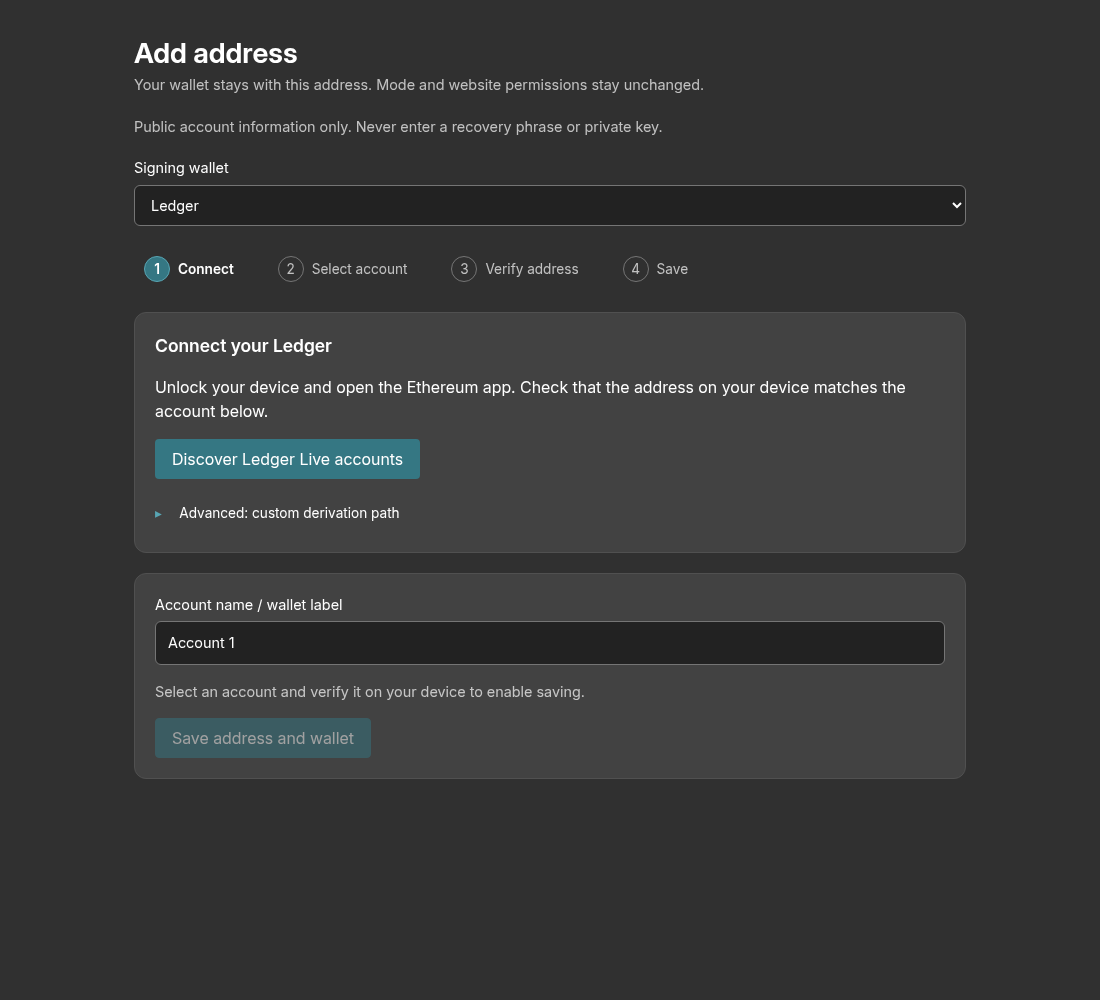
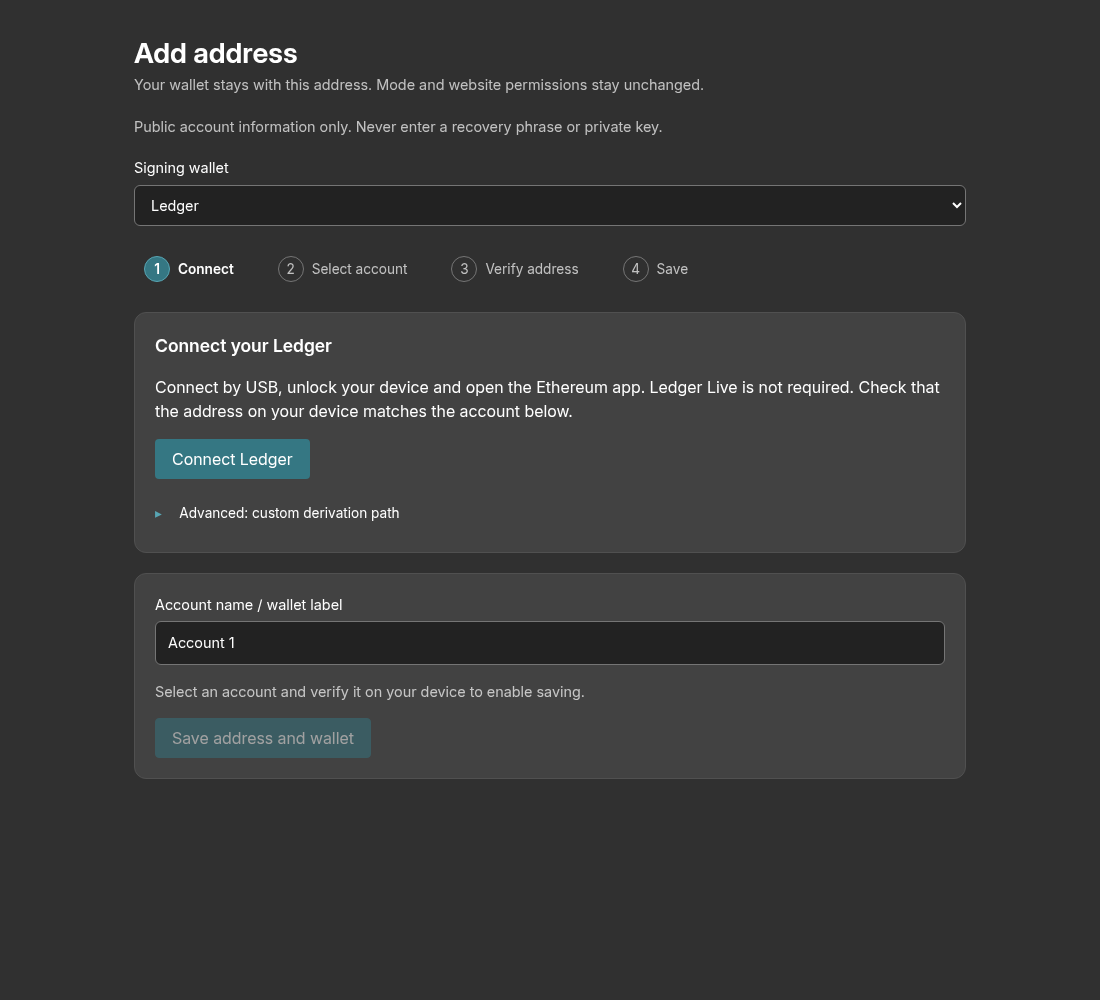
Clarify address selection and direct Ledger onboarding

Changed region(s): [[0.1545, 0.372, 0.8655, 0.496]]

diff --git a/app/ts/signingWallet.tsx b/app/ts/signingWallet.tsx
@@ -74,7 +74,7 @@ function SigningWalletPage() {
 		setStatus('Address verified on Ledger. Review and name the account before saving.')
 	})
 	const discoverLedger = () => run(async () => {
-		setStatus('Unlock Ledger and open Ethereum to discover the first five Ledger Live accounts.')
+		setStatus('Connect Ledger by USB, unlock it and open Ethereum to discover the first five accounts.')
 		const device = await selectLedgerDevice()
 		controller.current = new AbortController()
 		const discovered = await withLedgerDevice(device, controller.current.signal, async (exchange) => {
@@ -150,10 +150,10 @@ function SigningWalletPage() {
 		</select></label>
 		<SigningSteps steps = { steps } current = { currentStep }/>
 		{ saved ? <section class = 'signing-panel signing-success' role = 'status'><h2>{ kind === 'manual' ? 'Address saved' : 'Address and wallet saved' }</h2><p class = 'signing-address'>{ selectedAccount === undefined ? addressText : addressString(selectedAccount.address) }</p><p>You can close this tab and select the address in Interceptor.</p></section> : <>
-		{ kind === 'ledger' ? <section class = 'signing-panel'><h2>{ accounts.length === 0 ? 'Connect your Ledger' : 'Verify your selected account' }</h2><p>Unlock your device and open the Ethereum app. Check that the address on your device matches the account below.</p><div class = 'signing-actions'>
-			<button class = { `button ${ accounts.length === 0 ? 'is-primary' : 'signing-secondary' }` } disabled = { busy } onClick = { discoverLedger }>Discover Ledger Live accounts</button>
+		{ kind === 'ledger' ? <section class = 'signing-panel'><h2>{ accounts.length === 0 ? 'Connect your Ledger' : 'Verify your selected account' }</h2><p>Connect by USB, unlock your device and open the Ethereum app. Ledger Live is not required. Check that the address on your device matches the account below.</p><div class = 'signing-actions'>
+			<button class = { `button ${ accounts.length === 0 ? 'is-primary' : 'signing-secondary' }` } disabled = { busy } onClick = { discoverLedger }>Connect Ledger</button>
 			{ accounts.length === 0 ? undefined : <button class = 'button is-primary' disabled = { busy || ledgerVerified } onClick = { ledger }>{ ledgerVerified ? 'Address verified' : 'Verify selected address on Ledger' }</button> }
-		</div><details><summary>Advanced: custom derivation path</summary><label>Derivation path<input disabled = { busy } value = { path } onInput = { (event) => { setPath(event.currentTarget.value); setVerifiedLedgerAddress(undefined); setAccounts([]) } }/></label><p class = 'signing-muted'>Ledger Live: m/44′/60′/N′/0/0. Legacy: m/44′/60′/0′/0/N.</p><button class = 'button signing-secondary' disabled = { busy } onClick = { ledger }>Connect and verify this path</button></details></section> : undefined }
+		</div><details><summary>Advanced: custom derivation path</summary><label>Derivation path<input disabled = { busy } value = { path } onInput = { (event) => { setPath(event.currentTarget.value); setVerifiedLedgerAddress(undefined); setAccounts([]) } }/></label><p class = 'signing-muted'>Default account format (Ledger Live): m/44′/60′/N′/0/0. Legacy: m/44′/60′/0′/0/N.</p><button class = 'button signing-secondary' disabled = { busy } onClick = { ledger }>Connect and verify this path</button></details></section> : undefined }
 		{ kind === 'browser' ? <section class = 'signing-panel'><h2>Connect your browser wallet</h2><p>Open an approved website with your browser wallet installed, connect, then choose one of its exposed accounts here.</p><div class = 'signing-actions'><button class = 'button is-primary' disabled = { busy } onClick = { connectBrowserWallet }>Connect browser wallet</button></div>{ browserAccounts.map(({ tab, address, providerId }) => <button key = { `${ tab.tabId }:${ address }` } class = 'button signing-secondary' onClick = { () => { setAccounts([{ type: 'browser', address, signerName: tab.signerName, providerId, label }]); setSelected(0) } }>{ tab.signerProvider?.rdns ?? tab.signerName } · { addressString(address) }</button>) }{ tabs.some((tab) => tab.signerProvider?.ambiguous) ? <p class = 'signing-error'>Multiple providers claim the same wallet identity. Disable the conflicting wallet extension and reload the website before linking.</p> : undefined }</section> : undefined }
 		{ kind === 'airgap' ? <section class = 'signing-panel'>
 			<h2>{ scan ? 'Scan your public account' : 'Import from AirGap Vault' }</h2><p>In Vault, export your public Ethereum account as a QR code. No private keys leave Vault.</p>

diff --git a/test/benchmarks/signingScreenshots.ts b/test/benchmarks/signingScreenshots.ts
@@ -79,7 +79,7 @@ try {
 		`browser.storage.local.set(${JSON.stringify({
 			openedPageV2: { page: 'Home' },
 			selectedSigningAddress: address,
-			independentActiveSimulationAddress: manualAddress,
+			independentActiveSimulationAddress: ledgerAddress,
 			simulationMode: false,
 			useSignersAddressAsActiveAddress: false,
 			userAddressBookEntriesV3: [
@@ -129,15 +129,38 @@ try {
 	await home.page.evaluate(
 		`(() => { const button = [...document.querySelectorAll('button')].find(button => button.textContent.trim() === 'Change'); if(!button)throw new Error('Missing Change'); button.click(); })()`
 	)
-	await wait(home.page, 'Change signing wallet')
+	await wait(home.page, 'Choose address')
 	await capture(home.page, '00b-address-selector')
 	await home.page.evaluate(`document.querySelector('.modal-card-body').scrollTop = document.querySelector('.modal-card-body').scrollHeight`)
 	await capture(home.page, '00c-address-selector-manual')
+	if (await home.page.evaluate<boolean>(`[...document.querySelectorAll('.signing-address-selector button')].some(button => button.textContent === 'Use in simulation')`)) throw new Error('Address selector must not offer a mode-switch shortcut')
+	await click(home.page, 'Close')
+	await click(home.page, 'Simulating')
+	await wait(home.page, 'Main device')
+	for (let attempt = 0; attempt < 150; attempt++) {
+		if (await home.page.evaluate<boolean>(`(() => { const button = [...document.querySelectorAll('button')].find(button => button.textContent.trim() === 'Change'); if (!button || button.disabled) return false; button.click(); return true; })()`)) break
+		if (attempt === 149) throw new Error('Address controls remained disabled after switching mode')
+		await new Promise((resolve) => setTimeout(resolve, 100))
+	}
+	await wait(home.page, 'Choose address')
+	await home.page.evaluate(`(() => { const row = [...document.querySelectorAll('.signing-address-selector li')].find(row => row.textContent.includes('Research')); if (!row) throw new Error('Missing Research'); row.querySelector('.card').click(); })()`)
+
+	for (let attempt = 0; attempt < 100; attempt++) {
+		const selected = await background.evaluate<{ simulationMode?: boolean, selectedSigningAddress?: string, independentActiveSimulationAddress?: string }>(`browser.storage.local.get(['simulationMode', 'selectedSigningAddress', 'independentActiveSimulationAddress'])`)
+		if (selected.simulationMode === true && selected.independentActiveSimulationAddress === manualAddress) {
+			if (selected.selectedSigningAddress !== address) throw new Error('Address selection in Simulation mode changed signing address')
+			break
+		}
+		if (attempt === 99) throw new Error('Address selection did not preserve Simulation mode')
+		await new Promise((resolve) => setTimeout(resolve, 100))
+	}
+	await wait(home.page, 'No signing wallet')
+	await capture(home.page, '00d-simulation-selected')
 	await closeTarget(chrome.browserConnection, home.id)
-	const setup = await open('signingWalletV3.html', 'Discover Ledger Live accounts')
+	const setup = await open('signingWalletV3.html', 'Connect Ledger')
 	await capture(setup.page, '01-ledger-onboarding')
 	await installScreenshotLedger(setup.page)
-	await click(setup.page, 'Discover Ledger Live accounts')
+	await click(setup.page, 'Connect Ledger')
 	await wait(setup.page, 'Select an account, then verify')
 	await setup.page.evaluate(`document.querySelectorAll('input[type=radio]')[1].click()`)
 	await capture(setup.page, '01b-ledger-accounts')
@@ -163,7 +186,7 @@ try {
 	const preserved = await background.evaluate<boolean>(`(async () => {
 		const state = await browser.storage.local.get(['userAddressBookEntriesV3', 'selectedSigningAddress', 'independentActiveSimulationAddress', 'simulationMode']);
 		return state.userAddressBookEntriesV3.filter(entry => entry.address.toLowerCase() === ${JSON.stringify(address)}).length === 1
-			&& state.selectedSigningAddress === ${JSON.stringify(address)} && state.independentActiveSimulationAddress === ${JSON.stringify(manualAddress)} && state.simulationMode === false;
+			&& state.selectedSigningAddress === ${JSON.stringify(address)} && state.independentActiveSimulationAddress === ${JSON.stringify(manualAddress)} && state.simulationMode === true;
 	})()`)
 	if (!preserved) throw new Error('Onboarding duplicated the address or changed mode selections')
 

diff --git a/app/ts/components/subcomponents/SigningWalletSummary.tsx b/app/ts/components/subcomponents/SigningWalletSummary.tsx
@@ -9,7 +9,7 @@ export function openSigningWalletSetup(address?: bigint) {
 	return browser.tabs.create({ url: `${ browser.runtime.getURL(page) }${ address === undefined ? '' : `?address=0x${ address.toString(16).padStart(40, '0') }` }` })
 }
 
-export function SigningWalletSummary({ address, actionLabel = 'Change wallet' }: { address: bigint, actionLabel?: string }) {
+export function SigningWalletSummary({ address, showSimulationShortcut = true }: { address: bigint, showSimulationShortcut?: boolean }) {
 	const [bindings, setBindings] = useState<SigningWalletBindings>()
 	const [error, setError] = useState<string>()
 	useEffect(() => {
@@ -27,12 +27,15 @@ export function SigningWalletSummary({ address, actionLabel = 'Change wallet' }:
 	const binding = bindings.find((item) => item.wallet.address === address)
 	return <div class = 'signing-wallet-summary'>
 		<p>{ signingWalletDescription(binding) }</p>
-		{ binding === undefined ? <small>Set up signing wallet to sign, or switch to simulation below.</small> : undefined }
 		{ binding?.wallet.type === 'ledger' ? <small>Wallet saved · connect Ledger when signing</small> : binding?.wallet.type === 'airgap' ? <small>Imported account · awaiting offline signing</small> : undefined }
-		<div class = 'signing-actions'>
-		<button class = 'button is-small signing-secondary' onClick = { (event) => { event.stopPropagation(); void openSigningWalletSetup(address).catch((failure: unknown) => setError(failure instanceof Error ? failure.message : 'Could not open wallet setup')) } }>{ actionLabel }</button>
-		<button class = 'button is-small signing-secondary' onClick = { (event) => { event.stopPropagation(); void sendPopupMessageToBackgroundPage({ method: 'popup_changeActiveAddress', data: { activeAddress: address, simulationMode: true } }).catch((failure: unknown) => setError(failure instanceof Error ? failure.message : 'Could not select simulation address')) } }>Simulate this address</button>
+		<div class = 'signing-wallet-action'>
+		<button class = 'button is-small signing-secondary' onClick = { (event) => { event.stopPropagation(); void openSigningWalletSetup(address).catch((failure: unknown) => setError(failure instanceof Error ? failure.message : 'Could not open wallet setup')) } }>{ binding === undefined ? 'Set up wallet' : 'Change wallet' }</button>
+		<small>Choose how this address signs. Your selected address and mode stay the same.</small>
 		</div>
+		{ showSimulationShortcut ? <div class = 'signing-wallet-action'>
+		<button class = 'button is-small signing-secondary' onClick = { (event) => { event.stopPropagation(); void sendPopupMessageToBackgroundPage({ method: 'popup_changeActiveAddress', data: { activeAddress: address, simulationMode: true } }).catch((failure: unknown) => setError(failure instanceof Error ? failure.message : 'Could not select simulation address')) } }>Use in simulation</button>
+		<small>Select this address in Simulation mode. Your signing address stays the same.</small>
+		</div> : undefined }
 		{ error === undefined ? undefined : <p role = 'alert'>{ error }</p> }
 	</div>
 }

diff --git a/app/css/interceptor-pages.css b/app/css/interceptor-pages.css
@@ -839,7 +839,7 @@ fieldset[disabled] .button.is-primary.is-danger {
 .signing-camera video { max-width: 100%; width: 400px; border-radius: 8px; }
 .signing-wallet-summary { margin-top: 12px; color: var(--text-color); display: flex; flex-direction: column; gap: 8px; }
 .signing-wallet-summary small { color: var(--subtitle-text-color); }
-.signing-wallet-summary .signing-actions { margin-top: 4px; }
+.signing-wallet-action { display: grid; grid-template-columns: 136px minmax(0, 1fr); align-items: center; gap: 10px; margin-top: 4px; }
 .signing-address-selector .card.hoverable:hover, .signing-address-selector .card-content.hoverable:hover { background: var(--surface-mid-color); }
 .signing-address-selector .card { border: 1px solid var(--layout-line-color); box-shadow: none; }
 .signing-address-selector .card:hover { border-color: var(--accent-color); }
@@ -853,6 +853,7 @@ fieldset[disabled] .button.is-primary.is-danger {
 .signing-page details[open] > .signing-muted { margin: 12px 0; }
 .signing-page summary::before { content: '▸'; display: inline-block; width: 1.2em; color: var(--accent-color); }
 .signing-page details[open] > summary::before { content: '▾'; }
+.signing-address-selector .modal-card-body > .signing-muted { margin: 0 12px 10px; }
 .signing-address-selector .card-content { padding: 12px; }
 .signing-address-selector .signing-wallet-summary { margin-top: 8px; gap: 4px; font-size: .9rem; }
 .signing-address-selector .signing-wallet-summary .button { min-height: 32px; }

diff --git a/app/ts/components/pages/ChangeActiveAddress.tsx b/app/ts/components/pages/ChangeActiveAddress.tsx
@@ -39,7 +39,7 @@ export function ChangeActiveAddress(param: ChangeActiveAddressParam) {
 				</div>
 				<div class = 'card-header-title'>
 					<p class = 'paragraph'>
-					Change Active Address
+					Choose address
 					</p>
 				</div>
 				<button class = 'card-header-icon' aria-label = 'close' onClick = { param.close }>
@@ -47,6 +47,7 @@ export function ChangeActiveAddress(param: ChangeActiveAddressParam) {
 				</button>
 			</header>
 			<section class = 'modal-card-body'>
+				<p class = 'signing-muted'>Select an address to use in your current mode.</p>
 				<ul>
 					{ getSignerAccount() === undefined ? <></> : <li>
 						<div class = 'card hoverable' onClick = { () => { changeAndStoreActiveAddress('signer') } }>
@@ -82,7 +83,7 @@ export function ChangeActiveAddress(param: ChangeActiveAddressParam) {
 										noEditAddress = { true }
 										renameAddressCallBack = { param.renameAddressCallBack }
 									/>
-									{ activeAddress.type === 'safe' ? undefined : <SigningWalletSummary address = { activeAddress.address } actionLabel = 'Change signing wallet'/> }
+									{ activeAddress.type === 'safe' ? undefined : <SigningWalletSummary address = { activeAddress.address } showSimulationShortcut = { false }/> }
 									{ isSignerConnected(activeAddress.address) ?
 										<div class = 'content' style = 'color: var(--text-color)'>
 											<SignerLogoText signerName = { param.signerName } text = { ` ${ getPrettySignerName(param.signerName) } connected` }/>

diff --git a/docs/direct-signing-ui-walkthrough.md b/docs/direct-signing-ui-walkthrough.md
@@ -22,7 +22,7 @@ Open the toolbar popup to see the active address, its saved AirGap wallet, and t
 
 ## 2. Choose a saved wallet account
 
-Click Change to open the selector. AirGap and Ledger bindings remain visible without a connected device. Choose a row to select its address, or use Change signing wallet to edit that binding. Add address is the single onboarding entry point; Safe creation remains available in the address book.
+Click Change to open the selector. AirGap and Ledger bindings remain visible without a connected device. Choose a row to select its address in the current mode. Change wallet edits how that address signs without selecting it or changing mode. The selector does not switch modes; the separate Use in simulation shortcut is available on Home. Add address is the single onboarding entry point; Safe creation remains available in the address book.
 
 ![Choose a saved wallet account](images/direct-signing/00b-address-selector.png)
 
@@ -32,9 +32,15 @@ Scroll the same popup list to Research. This address has no signing wallet and r
 
 ![Select a manual address](images/direct-signing/00c-address-selector-manual.png)
 
+## 3b. Select an address in the current mode
+
+Close the selector, choose Simulating on Home, then click Change and select the Research row. Home shows Research in Simulation mode with no signing wallet. The browser check verifies that the remembered signing address is still Cold storage. You can simulate with Research, set up its wallet, or use the Signing mode button to return to your saved signing address.
+
+![Research selected for simulation](images/direct-signing/00d-simulation-selected.png)
+
 ## 4. Connect Ledger
 
-Choose Ledger on the dedicated onboarding page. Discover Ledger Live accounts is the primary action. Custom derivation paths are under Advanced. Saving stays disabled until an account has been verified.
+Choose Ledger on the dedicated onboarding page. Connect Ledger opens the browser’s USB device picker directly; Ledger Live is not required. The default account path follows the Ledger Live format. Custom derivation paths are under Advanced. Saving stays disabled until an account has been verified.
 
 ![Connect Ledger](images/direct-signing/01-ledger-onboarding.png)
 

diff --git a/docs/direct-signing-development.md b/docs/direct-signing-development.md
@@ -11,7 +11,7 @@ Open **Change** beside the active address, then **Add address / signing wallet**
 - **AirGap Vault:** export an Ethereum `crypto-account` or `crypto-hdkey` public-account UR and scan it with the camera. The scanner recognizes either format automatically and locks that format for the scan. Review and name the imported accounts. Account-root exports derive change 0, index 0; concrete address exports retain their supplied path. An imported account is awaiting offline signing, not continuously connected. Public-account import does not establish possession of a private key; every returned signature is independently verified.
 - **Manual:** enter an address and name. It remains available for chain reads and simulation. Real signing requires a wallet binding.
 
-Saved accounts remain visible while disconnected. Selecting an ordinary address in Signing mode pins it independently of browser-wallet account and chain callbacks. **Change signing wallet** edits the same address without selecting it; removing a binding retains the address. **Simulate this address** changes the simulation selection without changing the remembered explicit signing selection. The Simulating and Signing buttons switch modes; each mode remembers its address selection. Legacy browser-wallet-following selections remain supported.
+Saved accounts remain visible while disconnected. Selecting an ordinary address in Signing mode pins it independently of browser-wallet account and chain callbacks. **Change wallet** edits the same address without selecting it; removing a binding retains the address. **Use in simulation** changes the simulation selection without changing the remembered explicit signing selection. The Simulating and Signing buttons switch modes; each mode remembers its address selection. Legacy browser-wallet-following selections remain supported.
 
 For a Safe, select a saved signing-owner account under **Safe signing accounts**. Interceptor checks current on-chain ownership. The owner’s binding supplies owner signatures; a separate execution/gas-paying account can be selected. Simulation-owner selection remains separate. An owner signature does not itself broadcast an outer execution transaction.
 
